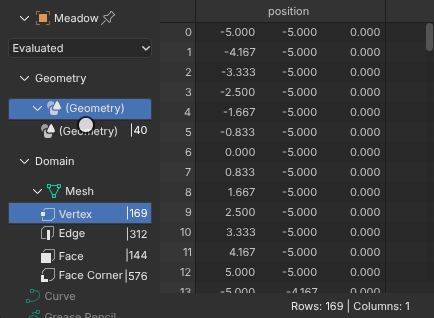
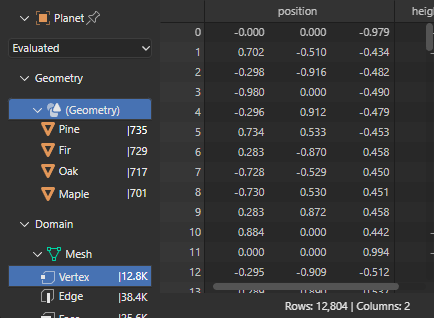
Spreadsheet docs show the Geometry Nodes Planet's mesh, cloud points and tree instances
Claude-Session: https://claude.ai/code/session_01PQ7TRPEHBjaE2nt66NvYBK
(cherry picked from commit a8697b3eb94784e22c1bce0624365e8e40fce69c)

diff --git a/docs/features/spreadsheet.md b/docs/features/spreadsheet.md
@@ -38,8 +38,9 @@ instances.
 
 [Open in Bylonder](https://propolisa.github.io/bylonder/#example=geometry-nodes)
 
-The demo is the Geometry Nodes Meadow example ([Geometry Nodes](geometry-nodes.md) builds it). The Meadow's modifier
-makes a mesh, a point cloud with a `height` attribute and instances of a Tree group.
+The demo is the Geometry Nodes Planet example ([Geometry Nodes](geometry-nodes.md) builds its core). Its modifier
+makes the terrain and sea as a mesh with a `height` attribute, the clouds as a point cloud with a radius per point, and
+the trees as instances of four tree objects with a `tree_scale` attribute.
 
 ## Steps
 
@@ -48,19 +49,19 @@ makes a mesh, a point cloud with a `height` attribute and instances of a Tree gr
 
    ![The Geometry Nodes workspace with the Spreadsheet](../media/features/spreadsheet/open.gif)
 
-2. **Pick a component and a domain.** Click Point Cloud in the data set tree at the left. The table lists the points,
-   with the `position`, `radius` and `height` columns; the footer counts the rows and columns. Instances lists each
-   instance with its transform and the geometry it instances.
+2. **Pick a component and a domain.** Click Point Cloud in the data set tree at the left. The table lists the cloud
+   points, with their `position` and `radius` columns; the footer counts the rows and columns. Instances lists each
+   tree with its transform, the object it instances and its `tree_scale`.
 
    ![Point Cloud, then Instances](../media/features/spreadsheet/domains.gif)
 
-3. **Original data.** Set the menu under the object's name to Original. The table shows the Meadow's own grid, before
-   its modifiers; Evaluated shows the result again.
+3. **Original data.** Set the menu under the object's name to Original. The table shows the planet's own ico sphere,
+   before its modifier; Evaluated shows the result again, with the `height` column on the mesh's points.
 
    ![Evaluated, then Original](../media/features/spreadsheet/original.gif)
 
 ## Project files
 
-- [geometry-nodes.mjs](../../examples/geometry-nodes/geometry-nodes.mjs) and
-  [geometry-nodes.blend](../../examples/geometry-nodes/geometry-nodes.blend): the scene and its node groups.
+- [geometry-nodes.py](../../examples/geometry-nodes/geometry-nodes.py) and
+  [geometry-nodes.blend](../../examples/geometry-nodes/geometry-nodes.blend): the planet and its node group.
 - Recorded by [record-spreadsheet.mjs](../../tools/docs/record-spreadsheet.mjs).
